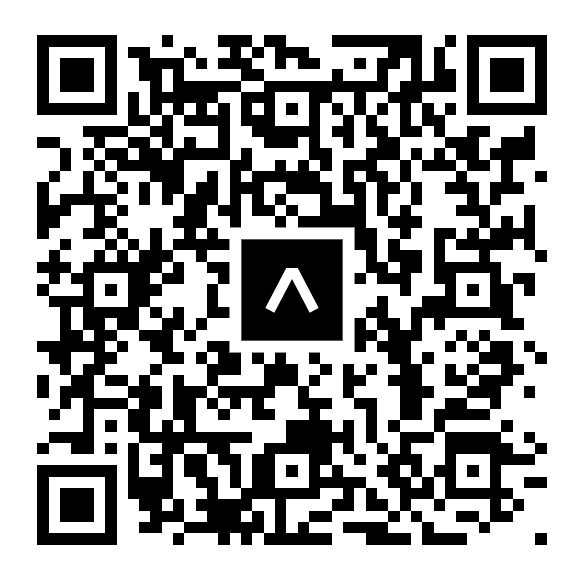
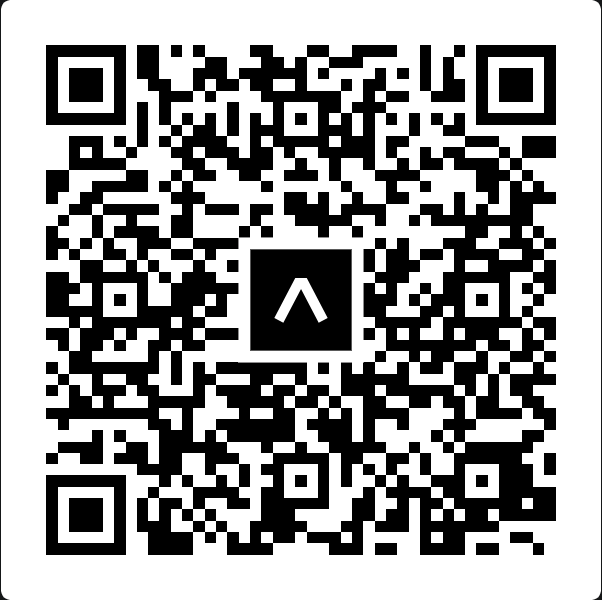
update: qr-codes

diff --git a/README.md b/README.md
@@ -16,16 +16,16 @@ Or, open this link on your device:
 
 1. iOs:
   ```sh
-  exp://u.expo.dev/update/e900bcde-0eba-4e2f-b897-6a564cd89c7f
+  exp://u.expo.dev/update/8d26ccfd-d1a8-40a4-b8e2-dd6c59c98d8b
   ```
 
 2. Android:
   ```sh
-  exp://u.expo.dev/update/2116485b-bb28-4706-9eca-5ff6c7da86d2
+  exp://u.expo.dev/update/8635cec5-b32b-4eb2-a296-4401f3dfe35a
   ```
 
 ## How to publish last changes to Expo
 
 ```sh
-  eas update
+eas update
 ```
